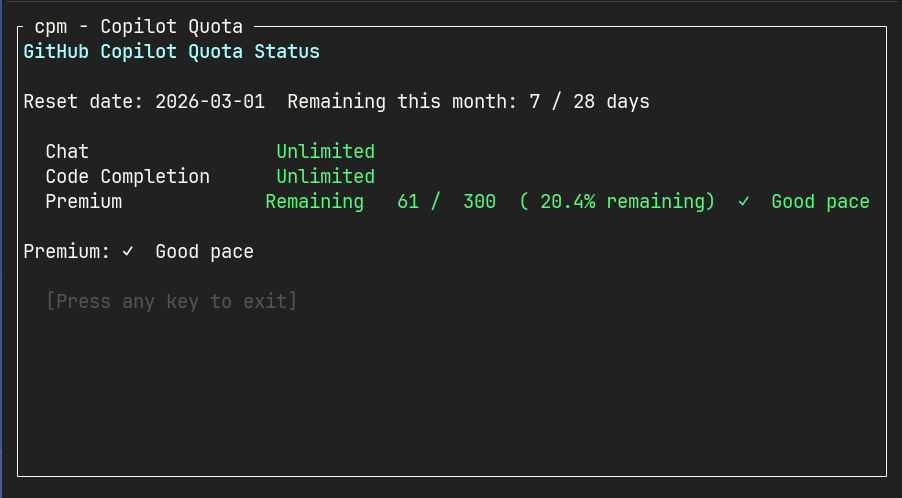
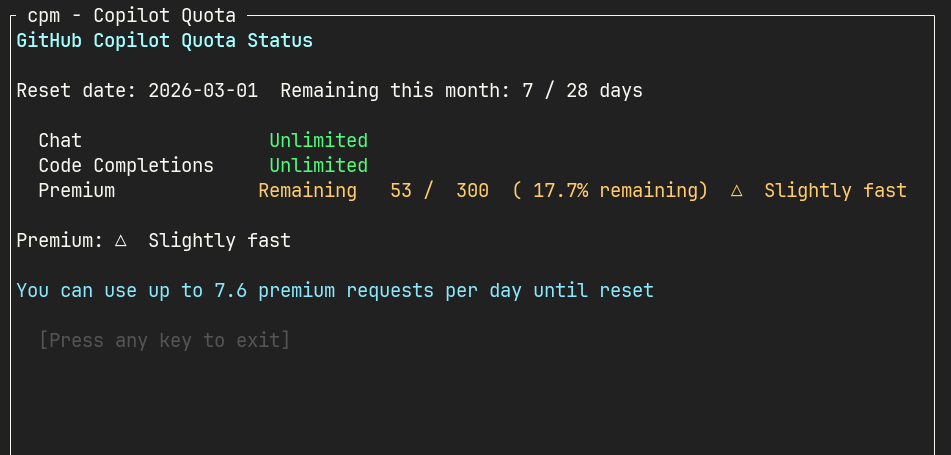
docs: Update cpm demo images

Changed region(s): [[0.0, 0.0, 0.9933, 1.0], [0.2483, 0.2769, 0.9623, 0.4615]]

diff --git a/articles/3d30c9c8c80cec.md b/articles/3d30c9c8c80cec.md
@@ -9,7 +9,7 @@ published: false
 Copilot CLI を使っていて「premium requests 使いすぎてないかな...」ってなることありませんか？私は学生プランで GitHub Copilot を利用しているのですが、`Remaining requests: xx.x%` という表示を見るたびに「えーっと今日はx日だから...」という具合に premium requests の消費ペースを気にしてしまいます。
 
 そこで cpm(copilot premium requests) というツールを作ってみました。
-![cpm のデモ](/images/demo.png)
+![cpm のデモ](/images/cpm_default.png)
 
 プログレスバー以外にもオプションからテキストやグラフを選べます。プログレスバーとグラフは少し見た目が違うだけですが。
 ![テキストで premium requests の消費量を表示](/images/cpm_text.png)
